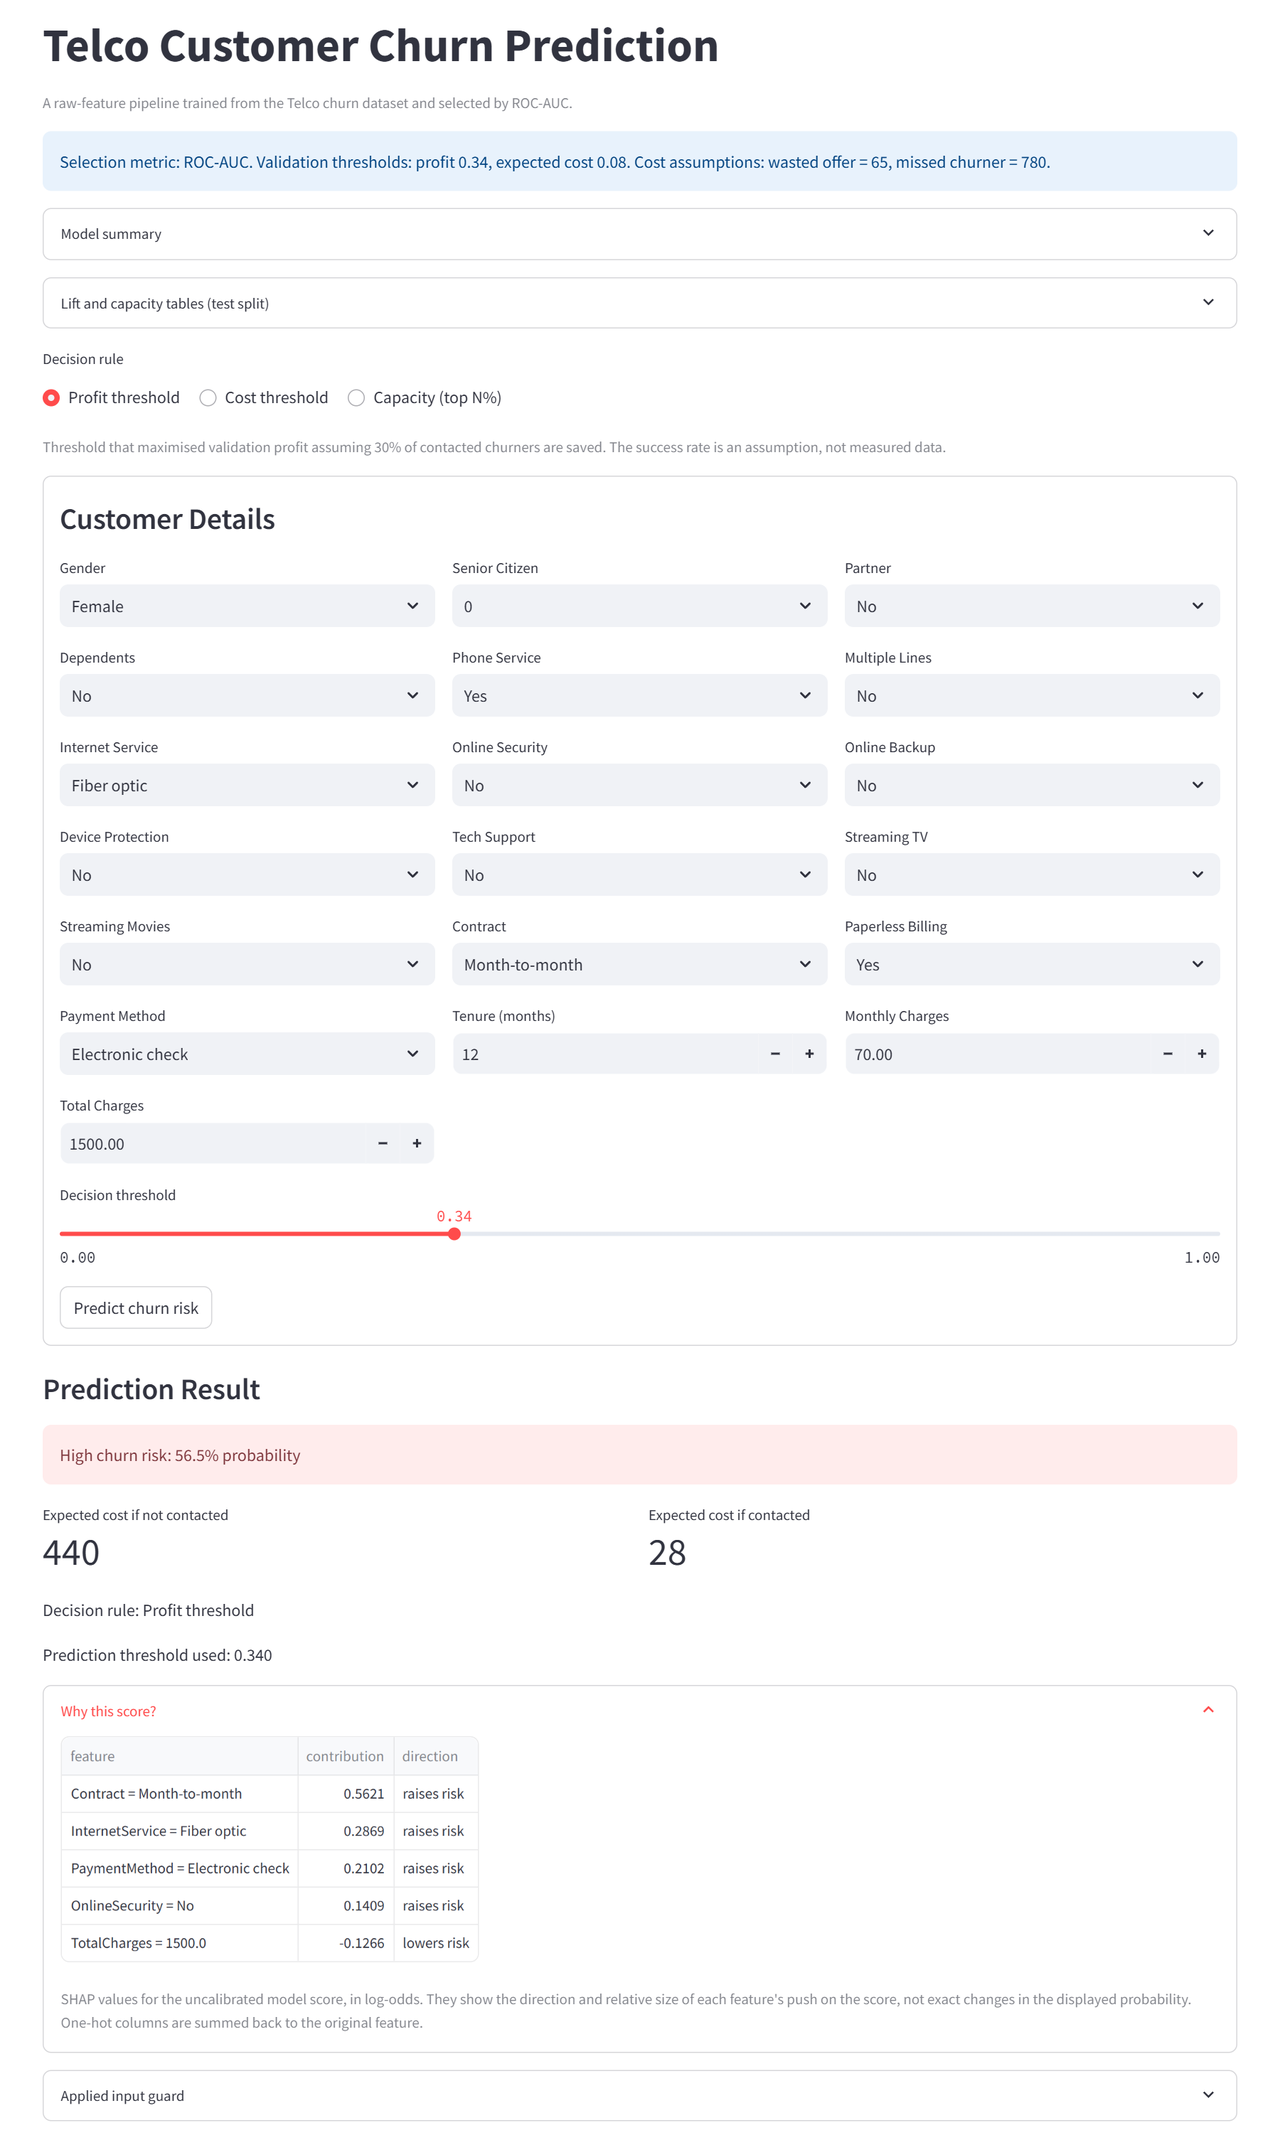
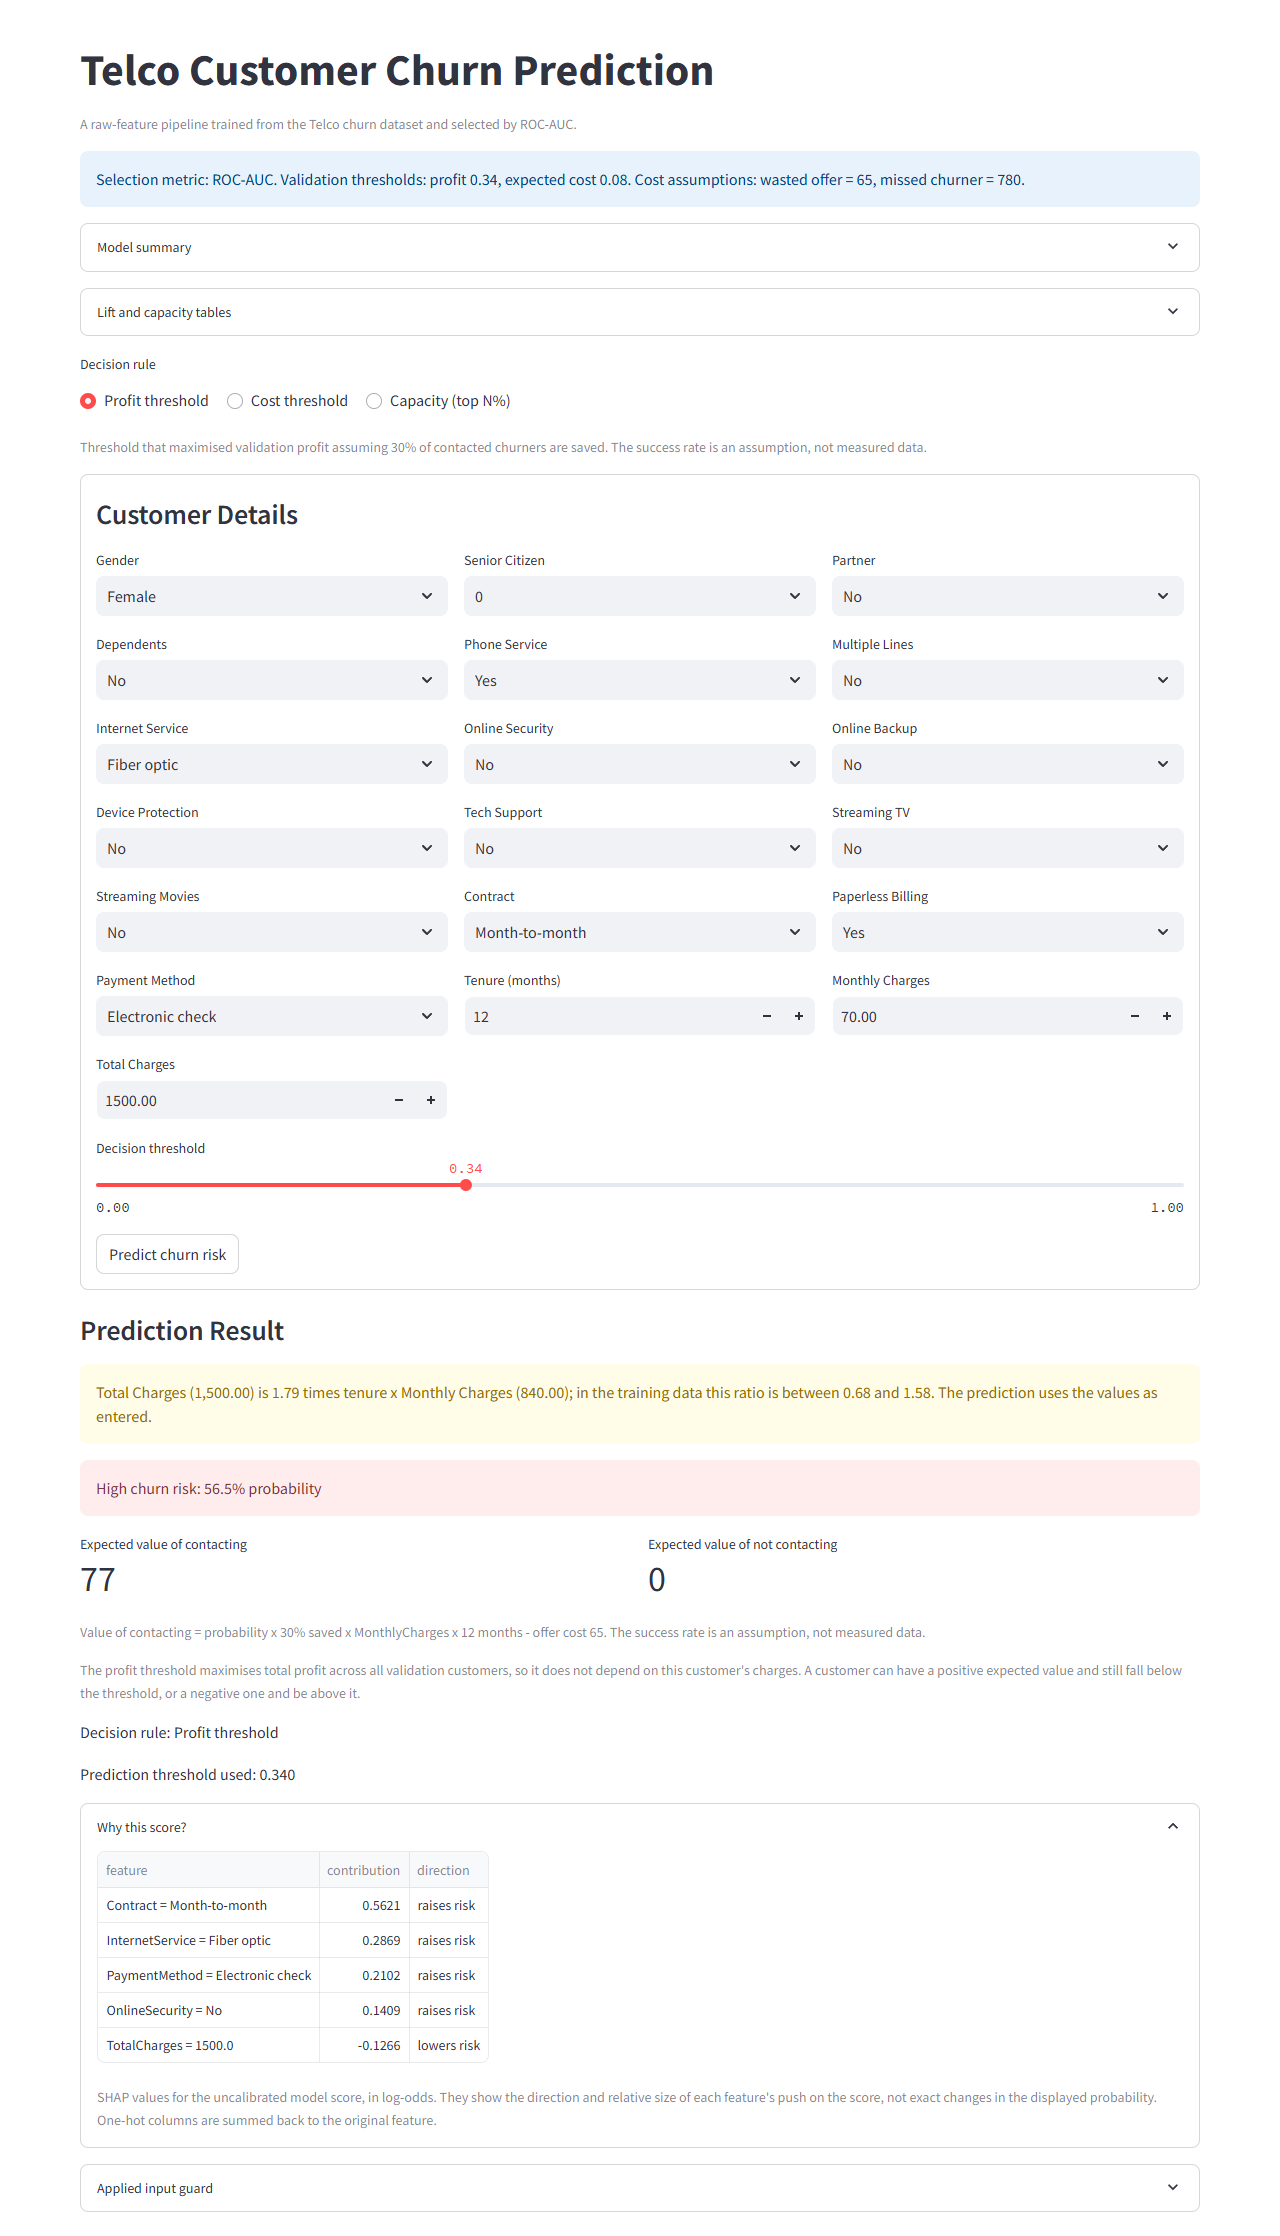
Retake the app screenshot with the profit-mode metrics and charges warning

diff --git a/README.md b/README.md
@@ -14,7 +14,7 @@ Five candidate pipelines across three model families (logistic regression, Rando
 **Headline result:** at the profit-maximising threshold of 0.34, the model contacts 37% of the 1,409 test customers and reaches 75.1% of churners (281 of 374) at 53.7% precision, for an expected profit of 42,870 under the stated assumptions. Test ROC-AUC is 0.836 (95% CI 0.815 to 0.859), against a majority-class baseline that catches zero churners.
 
 <p align="center">
-  <img src="docs/images/app_prediction.png" alt="Streamlit app showing a 56.5% churn probability for a month-to-month fiber customer, flagged as high risk at the 0.34 profit threshold, with the top SHAP reasons" width="720">
+  <img src="docs/images/app_prediction.png" alt="Streamlit app showing a 56.5% churn probability for a month-to-month fiber customer, flagged as high risk at the 0.34 profit threshold, with the TotalCharges warning, the expected value of contacting (77) and the top SHAP reasons" width="720">
 </p>
 
 **Contents:** [Findings](#findings-and-recommendations) · [Problem](#problem) · [Dataset](#dataset) · [Pipeline](#pipeline) · [First version](#what-was-wrong-with-the-first-version) · [Results](#results) · [Feature importance](#feature-importance) · [Segment analysis](#segment-analysis) · [Monitoring](#monitoring) · [Project structure](#project-structure) · [Installation](#installation) · [Usage](#usage) · [Design decisions](#design-decisions) · [Limitations](#limitations) · [Roadmap](#roadmap)
